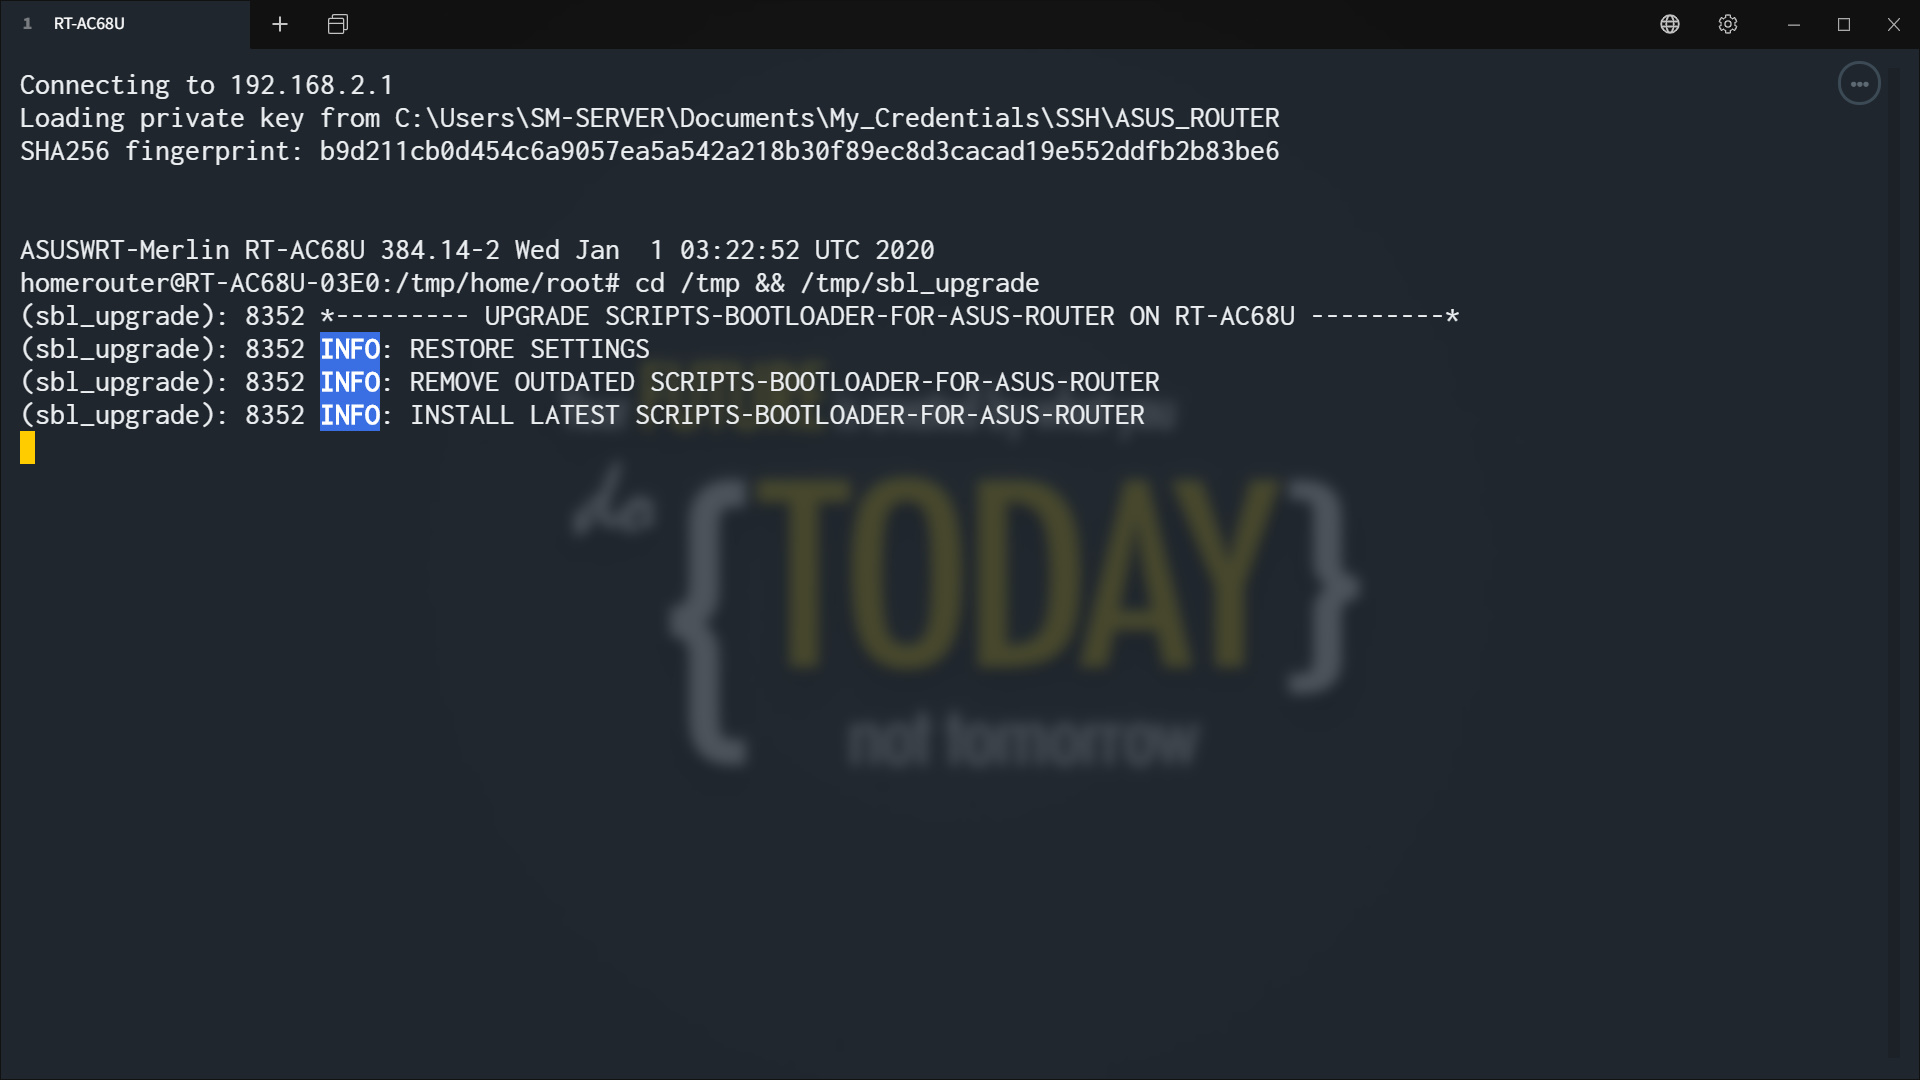
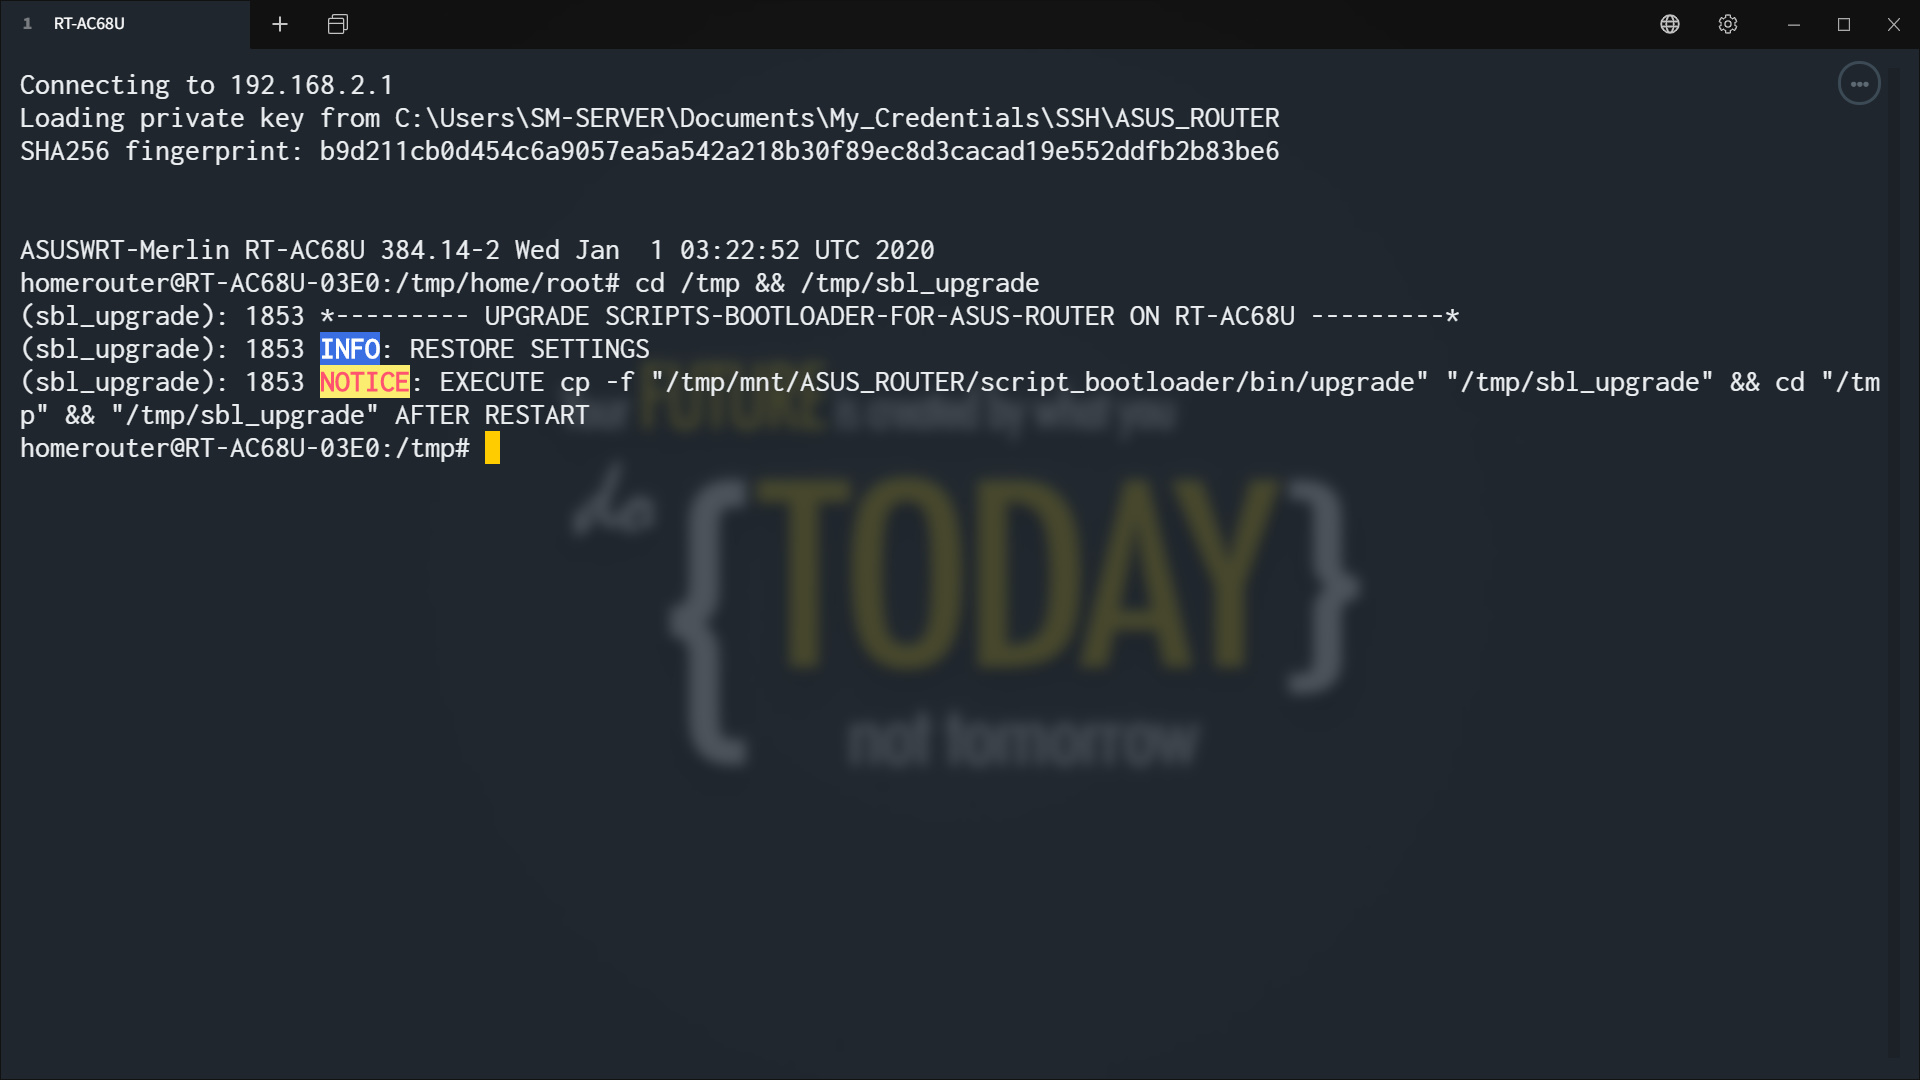
Update Documents

Changed region(s): [[0.0, 0.275, 0.9688, 0.4278]]

diff --git a/README_en-US.md b/README_en-US.md
@@ -18,7 +18,7 @@ As a consequence, I decide to develop this SCRIPTS BOOTLOADER FOR ASUS ROUTER wh
 
 2. Installation script of [Entware](https://entware.net/) has been rewritten thoroughly. It will deploy Entware matching the architecture of your router automatically in the USB flash drive with no attendence.
 
-3. Users can choose the size of swap to install from 256M, 512M, 1024M and 2048M and the swap will be created during installation and mounted automatically at every startup.
+3. Users can choose the size of swap to install from 64M, 128M, 256M, 512M, 1024M and 2048M and the swap will be created during installation and mounted automatically at every startup.
 
 4. One-key deploying script, one-key updating script and addon-installation script are offered, which are very easy to use.
 

diff --git a/How_to_Use_en-US.md b/How_to_Use_en-US.md
@@ -265,7 +265,15 @@ Modify the source files of the target add-on according to the README_en-US.md in
 
    ![](./Documents_Assets/How_to_Use/upgrade/step2.jpg)
 
-3. Following steps are same with those in section [Installation (Online)](#installation-online)
+3. Execute the code below after restart.
+
+   ```shell
+   cp -f "/tmp/mnt/ASUS_ROUTER/script_bootloader/bin/upgrade" "/tmp/sbl_upgrade" && cd "/tmp" && "/tmp/sbl_upgrade"
+   ```
+
+   ![](./Documents_Assets/How_to_Use/upgrade/step3.jpg)
+
+4. Following steps are same with those in section [Installation (Online)](#installation-online)
 
 ## Uninstallation
 

diff --git a/README.md b/README.md
@@ -18,7 +18,7 @@
 
 2. 全新编写[Entware](https://entware.net/)自动安装程序。程序会根据路由器架构，自动安装适当版本的Entware，无需用户参与安装过程
 
-3. 可根据实际需要，选择安装256M、512M、1024M、和2048M虚拟内存，确保运行流畅
+3. 可根据实际需要，选择安装64M、128M、256M、512M、1024M、和2048M虚拟内存，确保运行流畅
 
 4. 配备一键安装和一键更新程序，便于使用
 

diff --git a/How_to_Use_zh-CN.md b/How_to_Use_zh-CN.md
@@ -265,7 +265,15 @@
 
    ![](./Documents_Assets/How_to_Use/upgrade/step2.jpg)
 
-3. 后续步骤同[在线安装](#在线安装)
+3. 路由器重启后，执行下列代码
+
+   ```shell
+   cp -f "/tmp/mnt/ASUS_ROUTER/script_bootloader/bin/upgrade" "/tmp/sbl_upgrade" && cd "/tmp" && "/tmp/sbl_upgrade"
+   ```
+
+   ![](./Documents_Assets/How_to_Use/upgrade/step3.jpg)
+
+4. 后续步骤同[在线安装](#在线安装)
 
 ## 卸载
 
